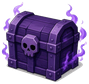
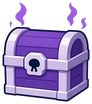
v0.3：平涂卡通新素材 + 按布景规则随机生成房间

diff --git a/src/game/scenes/RunScene.ts b/src/game/scenes/RunScene.ts
@@ -30,6 +30,7 @@ const MON_COLOR: Record<string, number> = { mon_slime: 0x7ee36b, mon_slime_mini:
 export class RunScene extends Phaser.Scene {
   constructor() { super('Run'); }
   // 基础
+  stoneGrid: Uint8Array | null = null; gridW = 0; gridH = 0; stoneLayer: Phaser.Tilemaps.TilemapLayer | null = null; roomPlazas: { ox: number; oy: number; x0: number; y0: number; sz: number; cx: number; cy: number }[] = [];
   rng!: Rng; juice!: Juice; floor = 1; isBoss = false; regionCoef = 1; mapW = 0; mapH = 0;
   W = 750; H = 1334; topH = 0; barTop = 0; sa = { top: 0, bottom: 0 };
   tutorial = false; lockTipT = 0;
@@ -125,38 +126,91 @@ export class RunScene extends Phaser.Scene {
     const R = 18 * CELL;
     if (this.isBoss) { this.mapW = 16 * CELL; this.mapH = 34 * CELL; } else { this.mapW = 3 * R; this.mapH = 3 * R; }
     this.cameras.main.setBackgroundColor('#3d5a2a');
-    this.add.tileSprite(0, 0, this.mapW, this.mapH, 'tile_garden_grass').setOrigin(0).setDepth(-1000);
-    // 石板路：贯穿房间中心
-    const road = (x: number, y: number, w: number, h: number) => this.add.tileSprite(x, y, w, h, 'tile_garden_stone').setOrigin(0).setDepth(-999).setTileScale(0.5);
-    if (!this.isBoss) {
-      for (let i = 0; i < 3; i++) { road(0, i * R + R / 2 - CELL, this.mapW, CELL * 2); road(i * R + R / 2 - CELL, 0, CELL * 2, this.mapH); }
-      // 房间中心广场
-      for (let i = 0; i < 3; i++) for (let j = 0; j < 3; j++) if (this.rng.chance(0.6)) road(i * R + R / 2 - CELL * 2.5, j * R + R / 2 - CELL * 2.5, CELL * 5, CELL * 5);
-    } else {
-      road(this.mapW / 2 - CELL * 1.5, 0, CELL * 3, this.mapH);
-      road(CELL * 2, CELL * 2, this.mapW - CELL * 4, CELL * 20);
-    }
-    // 边界：石柱围墙
-    const edge = this.add.graphics().setDepth(-998); edge.lineStyle(26, 0x2b1d14, 0.55); edge.strokeRect(0, 0, this.mapW, this.mapH);
-    for (let x = 0; x <= this.mapW; x += CELL * 3) { this.prop('prop_bush_flower', x, -10, false, 0.9); this.prop('prop_bush_flower', x, this.mapH + 40, false, 0.9); }
-    for (let y = CELL * 2; y <= this.mapH; y += CELL * 3) { this.prop('prop_bush_flower', -10, y, false, 0.9); this.prop('prop_bush_flower', this.mapW + 10, y, false, 0.9); }
+    this.add.tileSprite(0, 0, this.mapW, this.mapH, 'tile_garden_grass').setOrigin(0).setDepth(-1000).setTileScale(1);
+    // 石砖：64px 瓦片铺成 tilemap（只渲染镜头内的格子，比遮罩省）
+    const cw = Math.ceil(this.mapW / CELL), chh = Math.ceil(this.mapH / CELL);
+    this.stoneGrid = new Uint8Array(cw * chh); this.gridW = cw; this.gridH = chh;
+    const tm = this.make.tilemap({ tileWidth: CELL, tileHeight: CELL, width: cw, height: chh });
+    const ts = tm.addTilesetImage('stone', 'tile_garden_stone_64', CELL, CELL, 0, 0, 0)!;
+    this.stoneLayer = tm.createBlankLayer('stone', ts, 0, 0)!.setDepth(-999);
+    const stone = (x0: number, y0: number, w: number, h: number, round = false) => {
+      for (let x = x0; x < x0 + w; x++) for (let y = y0; y < y0 + h; y++) {
+        if (round && (x === x0 || x === x0 + w - 1) && (y === y0 || y === y0 + h - 1)) continue; // 圆角：去掉 4 个角
+        if (x < 0 || y < 0 || x >= cw || y >= chh) continue;
+        this.stoneGrid![y * cw + x] = 1; this.stoneLayer!.putTileAt(0, x, y);
+      }
+    };
+    // 边界：外圈一排树（不挡路，只做画框）
+    const edge = this.add.graphics().setDepth(-998); edge.lineStyle(26, 0x2b4a1e, 0.5); edge.strokeRect(0, 0, this.mapW, this.mapH);
+    for (let x = -CELL; x <= this.mapW + CELL; x += CELL * 2.2) { this.deco('deco_garden_tree', x + this.rng.range(-20, 20), -CELL * 0.2, true); this.deco('deco_garden_tree', x + this.rng.range(-20, 20), this.mapH + CELL * 2.2, true); }
+    for (let y = CELL * 1.8; y <= this.mapH + CELL; y += CELL * 2.2) { this.deco('deco_garden_tree', -CELL * 0.6, y, true); this.deco('deco_garden_tree', this.mapW + CELL * 0.6, y); }
 
-    if (this.isBoss) return this.buildBossMap();
-    // 每个房间：障碍、装饰、陶罐
-    for (let i = 0; i < 3; i++) for (let j = 0; j < 3; j++) {
-      const ox = i * R, oy = j * R;
-      const n = this.rng.int(4, 7);
-      for (let k = 0; k < n; k++) {
-        const x = ox + this.rng.range(2, 16) * CELL, y = oy + this.rng.range(2, 16) * CELL;
-        if (Math.abs(x - (ox + R / 2)) < CELL * 2.5 || Math.abs(y - (oy + R / 2)) < CELL * 2.5) continue; // 不堵路
-        const kind = this.rng.pick(['prop_pillar', 'prop_rock', 'prop_statue', 'prop_rock', 'prop_bush_flower', 'prop_bush_flower']);
-        this.prop(kind, x, y, kind !== 'prop_bush_flower');
+    if (this.isBoss) { stone(Math.floor(cw / 2) - 1, 0, 3, chh); stone(2, 2, cw - 4, 20, true); return this.buildBossMap(); }
+
+    // ===== 房间（3×3，每间 18×18 格），规则见美术《花园房间布景规则_v1》 =====
+    const N = 3, RC = 18;
+    // 房间之间的连路：全连后随机去掉一些，保证每间 ≥2 条且整体连通
+    const links: [number, number, number, number][] = [];
+    for (let i = 0; i < N; i++) for (let j = 0; j < N; j++) { if (i < N - 1) links.push([i, j, i + 1, j]); if (j < N - 1) links.push([i, j, i, j + 1]); }
+    const deg = (i: number, j: number, L: typeof links) => L.filter((l) => (l[0] === i && l[1] === j) || (l[2] === i && l[3] === j)).length;
+    const connected = (L: typeof links) => { const seen = new Set(['0,0']); const q = [[0, 0]]; while (q.length) { const [i, j] = q.pop()!; for (const l of L) { let o: number[] | null = null; if (l[0] === i && l[1] === j) o = [l[2], l[3]]; else if (l[2] === i && l[3] === j) o = [l[0], l[1]]; if (o && !seen.has(o.join(','))) { seen.add(o.join(',')); q.push(o); } } } return seen.size === N * N; };
+    let L = [...links];
+    for (const l of Phaser.Utils.Array.Shuffle([...links])) { if (!this.rng.chance(0.3)) continue; const t = L.filter((x) => x !== l); if (deg(l[0], l[1], t) >= 2 && deg(l[2], l[3], t) >= 2 && connected(t)) L = t; }
+    this.roomPlazas = [];
+    for (let i = 0; i < N; i++) for (let j = 0; j < N; j++) {
+      const ox = i * RC, oy = j * RC, cx = ox + 9, cy = oy + 9;
+      const sz = this.rng.int(6, 8), x0 = cx - Math.floor(sz / 2), y0 = cy - Math.floor(sz / 2);
+      stone(x0, y0, sz, sz, true);
+      this.roomPlazas.push({ ox, oy, x0, y0, sz, cx, cy });
+      const has = (di: number, dj: number) => L.some((l) => (l[0] === i && l[1] === j && l[2] === i + di && l[3] === j + dj) || (l[2] === i && l[3] === j && l[0] === i + di && l[1] === j + dj));
+      if (has(1, 0)) stone(x0 + sz, cy - 1, ox + RC - (x0 + sz), 2);
+      if (has(-1, 0)) stone(ox, cy - 1, x0 - ox, 2);
+      if (has(0, 1)) stone(cx - 1, y0 + sz, 2, oy + RC - (y0 + sz));
+      if (has(0, -1)) stone(cx - 1, oy, 2, y0 - oy);
+    }
+    for (let r = 0; r < this.roomPlazas.length; r++) {
+      const P = this.roomPlazas[r]; const { ox, oy, x0, y0, sz, cx, cy } = P; let solids = 0;
+      const C = (gx: number) => gx * CELL;
+      // 广场四角柱子，随机缺 0~2 根
+      const corners = Phaser.Utils.Array.Shuffle([[x0, y0], [x0 + sz - 1, y0], [x0, y0 + sz - 1], [x0 + sz - 1, y0 + sz - 1]]);
+      const miss = this.rng.int(0, 2);
+      corners.slice(miss).forEach(([gx, gy]) => { this.prop('prop_pillar', C(gx + 0.5), C(gy + 0.9), true); solids++; });
+      // 广场上沿中间的雕像（上方没有小路时才放，小路上不放碰撞物）
+      if (this.rng.chance(0.6) && !this.isStone(cx, y0 - 1)) { this.prop('prop_statue', C(cx), C(y0 + 0.8), true); solids++; }
+      // 房间四角的自然物件组
+      for (const [sx, sy] of [[0, 0], [1, 0], [0, 1], [1, 1]]) {
+        const bx = sx ? ox + RC - this.rng.range(1.5, 3) : ox + this.rng.range(1.5, 3), by = sy ? oy + RC - this.rng.range(1, 2.5) : oy + this.rng.range(2, 3);
+        if (this.place('deco_garden_tree', C(bx), C(by), 0.6)) solids++;
+        if (this.rng.chance(0.5) && this.place('deco_garden_tree', C(bx + (sx ? -2.2 : 2.2)), C(by + this.rng.range(-0.5, 0.8)), 0.6)) solids++;
+        if (this.rng.chance(0.7)) this.place('prop_bush_flower', C(bx + (sx ? -1 : 1) * this.rng.range(0.8, 1.4)), C(by + 1.1), 0);
+        if (this.rng.chance(0.6)) this.place('deco_garden_mushroom', C(bx + (sx ? 1 : -1) * 0.9), C(by + 0.6), 0);
+      }
+      // 草地上的断墙 2~3 段（离房间边 2~4 格）
+      for (let k = 0, n = this.rng.int(2, 3), tries = 0; k < n && tries < 30; tries++) {
+        const side = this.rng.int(0, 3); const d = this.rng.range(2, 4), t = this.rng.range(3, 15);
+        const gx = side === 0 ? ox + t : side === 1 ? ox + RC - d : side === 2 ? ox + t : ox + d;
+        const gy = side === 0 ? oy + d + 0.5 : side === 1 ? oy + t : side === 2 ? oy + RC - d : oy + t;
+        if (this.place('obs_garden_wall', C(gx), C(gy), 1.0, true)) { k++; solids++; }
+      }
+      // 点缀：石头 1~2、水洼 0~1、篱笆 0~1
+      for (let k = 0, n = this.rng.int(1, 2), tries = 0; k < n && tries < 30; tries++) if (this.place('prop_rock', C(ox + this.rng.range(2, 16)), C(oy + this.rng.range(2, 16)), 0.7)) { k++; solids++; }
+      if (this.rng.chance(0.6)) for (let tries = 0; tries < 20; tries++) if (this.place('deco_garden_puddle', C(ox + this.rng.range(2, 16)), C(oy + this.rng.range(2, 16)), 0, false, true)) break;
+      if (this.rng.chance(0.5)) for (let tries = 0; tries < 20; tries++) if (this.place('obs_garden_fence', C(ox + this.rng.range(2, 16)), C(oy + this.rng.range(2, 16)), 0.9, true)) { solids++; break; }
+      if (this.rng.chance(0.4)) for (let tries = 0; tries < 20; tries++) if (this.place('deco_garden_slab', C(ox + this.rng.range(2, 16)), C(oy + this.rng.range(2, 16)), 0, false, true)) break;
+      // 补到至少 8 个碰撞物（石头）
+      for (let tries = 0; solids < 8 && tries < 40; tries++) if (this.place(this.rng.chance(0.5) ? 'prop_rock' : 'prop_bush_flower', C(ox + this.rng.range(2, 16)), C(oy + this.rng.range(2, 16)), 0.6)) solids++;
+      // 草丛 + 小花 20~30 个，只撒在草地上
+      for (let k = 0, n = this.rng.int(20, 30), tries = 0; k < n && tries < 80; tries++) {
+        const gx = ox + this.rng.range(0.5, 17.5), gy = oy + this.rng.range(0.5, 17.5);
+        if (this.isStone(Math.floor(gx), Math.floor(gy))) continue;
+        const img = this.add.image(C(gx), C(gy), this.rng.chance(0.55) ? 'deco_garden_grass' : 'deco_garden_flower').setOrigin(0.5, 1).setDepth(-600 + gy * 0.01);
+        if (this.rng.chance(0.5)) img.setFlipX(true); k++;
       }
     }
-    // 出生点：中央房间
+    // 出生点：中央房间广场中心
     this.px = R * 1.5; this.py = R * 1.5;
-    // 陶罐
-    for (let k = 0; k < Cfg.gp._pot_count; k++) { const p = this.freeSpot(3); this.pots.push({ x: p.x, y: p.y, spr: this.add.image(p.x, p.y, 'prop_pot').setOrigin(0.5, 0.9).setDepth(p.y), broken: false }); }
+    // 陶罐：广场边缘或小路旁 1 格内
+    for (let k = 0; k < Cfg.gp._pot_count; k++) { const p = this.edgeSpot(3); this.pots.push({ x: p.x, y: p.y, spr: this.add.image(p.x, p.y, 'prop_pot').setOrigin(0.5, 0.97).setDepth(p.y), broken: false }); this.shadowAt(p.x, p.y, 71); }
     // 宝箱（寻宝直觉加成数量）
     const fr = Cfg.floorRow('garden', this.floor);
     const chestTable: Record<string, number> = this.tutorial && this.floor === 1 && Cfg.gp.tutorial_chests ? Cfg.gp.tutorial_chests : fr.chests;
@@ -167,13 +221,49 @@ export class RunScene extends Phaser.Scene {
       for (let k = 0; k < n; k++) {
         // 第一个宝箱刷在出生点 4~6 格内（教开箱）
         const near = Cfg.gp.first_chest_near_spawn as number[] | undefined;
-        const p = firstChest && near ? this.ringSpot(near[0], near[1]) : this.freeSpot(5);
+        const p = firstChest && near ? this.ringSpot(near[0], near[1]) : this.edgeSpot(5);
         const mimic = !firstChest && id === 'chest_wood' && this.floor >= (Cfg.gp.mimic_min_floor ?? 1) && this.rng.chance(Cfg.gp._mimic_rate);
         const c = this.addChest(id, p.x, p.y, mimic);
         if (firstChest && this.tutorial) (c as any).minRarity = Cfg.gp.tutorial_first_chest_rarity ?? null;
         firstChest = false;
       }
     }
+  }
+  isStone(gx: number, gy: number) { return gx >= 0 && gy >= 0 && gx < this.gridW && gy < this.gridH && this.stoneGrid![gy * this.gridW + gx] === 1; }
+  /** 椭圆影子：宽 = 图宽 70%，高 16px，#1E3C1E 透明度 0.27（布景规则 §图层 5） */
+  shadowAt(x: number, y: number, w: number) { this.add.image(x, y - 2, 'shadow_e').setDisplaySize(w * 0.7, 16).setTint(0x1e3c1e).setAlpha(0.27).setDepth(y - 1); }
+  /** 立体装饰（可选碰撞，不做规则检查） */
+  deco(key: string, x: number, y: number, flip = false) { const img = this.add.image(x, y, key).setOrigin(0.5, 0.97).setDepth(y); if (flip || this.rng.chance(0.5)) img.setFlipX(true); this.shadowAt(x, y, img.width); return img; }
+  /** 按布景规则放物件：碰撞物之间 ≥2 格、不压小路、不进广场中心 4×4；flat=平铺装饰 */
+  place(key: string, x: number, y: number, rCells: number, wide = false, flat = false): boolean {
+    const gx = Math.floor(x / CELL), gy = Math.floor(y / CELL);
+    if (x < CELL || y < CELL * 1.5 || x > this.mapW - CELL || y > this.mapH - CELL * 0.5) return false;
+    const span = wide ? 2 : 1;
+    for (let dx = -span; dx <= span; dx++) for (let dy = -1; dy <= 0; dy++) if (this.isStone(gx + dx, gy + dy)) return false;
+    for (const P of this.roomPlazas) if (Math.abs(x / CELL - P.cx) < 2.5 && Math.abs(y / CELL - P.cy) < 2.5) return false;
+    if (rCells > 0 && this.obst.some((o) => dist2(x, y, o.x, o.y) < (2 * CELL) ** 2)) return false;
+    if (dist2(x, y, this.mapW / 2, this.mapH / 2) < (3 * CELL) ** 2) return false; // 出生点周围留空
+    if (flat) { const img = this.add.image(x, y, key).setOrigin(0.5, 1).setDepth(-700); if (this.rng.chance(0.5)) img.setFlipX(true); return true; }
+    const img = this.add.image(x, y, key).setOrigin(0.5, 0.97).setDepth(y);
+    if (this.rng.chance(0.5) && key !== 'prop_statue') img.setFlipX(true);
+    this.shadowAt(x, y, img.width);
+    if (rCells > 0) { if (wide) { this.obst.push({ x: x - CELL * 0.5, y: y - 14, r: CELL * 0.55 }); this.obst.push({ x: x + CELL * 0.5, y: y - 14, r: CELL * 0.55 }); } else this.obst.push({ x, y: y - 12, r: rCells * CELL * 0.6 }); }
+    return true;
+  }
+  /** 广场边缘或小路旁 1 格内的草地格（宝箱/陶罐要一眼能看到） */
+  edgeSpot(minDist: number) {
+    for (let k = 0; k < 200; k++) {
+      const gx = this.rng.int(1, this.gridW - 2), gy = this.rng.int(2, this.gridH - 2);
+      if (this.isStone(gx, gy)) continue;
+      if (!(this.isStone(gx + 1, gy) || this.isStone(gx - 1, gy) || this.isStone(gx, gy + 1) || this.isStone(gx, gy - 1))) continue;
+      const x = (gx + 0.5) * CELL, y = (gy + 0.8) * CELL;
+      if (dist2(x, y, this.px, this.py) < (minDist * CELL) ** 2) continue;
+      if (this.obst.some((o) => dist2(x, y, o.x, o.y) < (o.r + CELL * 0.8) ** 2)) continue;
+      if (this.chests.some((c) => dist2(x, y, c.x, c.y) < (CELL * 4) ** 2)) continue;
+      if (this.pots.some((c) => dist2(x, y, c.x, c.y) < (CELL * 2) ** 2)) continue;
+      return { x, y };
+    }
+    return this.freeSpot(minDist);
   }
   buildBossMap() {
     // 前厅（下方 10 格）+ Boss 房（上方 24 格）
@@ -189,7 +279,7 @@ export class RunScene extends Phaser.Scene {
   }
   txtWorld(x: number, y: number, s: string, size: number, color: string) { return txt(this, x, y, s, size, color, '#2b1d14', 6).setDepth(-900); }
   prop(key: string, x: number, y: number, solid: boolean, sc = 1) {
-    const img = this.add.image(x, y, key).setOrigin(0.5, 0.92).setDepth(y).setScale(sc);
+    const img = this.add.image(x, y, key).setOrigin(0.5, 0.97).setDepth(y).setScale(sc); this.shadowAt(x, y, img.width * sc);
     if (this.rng.chance(0.5) && key !== 'prop_statue') img.setFlipX(true);
     if (solid) this.obst.push({ x, y: y - 10, r: (key === 'prop_rock' ? 0.75 : 0.6) * CELL * sc });
     return img;
@@ -216,8 +306,8 @@ export class RunScene extends Phaser.Scene {
   }
   addChest(id: string, x: number, y: number, mimic = false) {
     const row = Cfg.chestRow(id);
-    const spr = this.add.image(x, y, row.sprite + '_closed').setOrigin(0.5, 0.92).setDepth(y);
-    this.add.image(x, y + 4, 'shadow').setDepth(y - 1).setScale(1.3, 1.2);
+    const spr = this.add.image(x, y, row.sprite + '_closed').setOrigin(0.5, 0.97).setDepth(y);
+    this.shadowAt(x, y, spr.width);
     if (id === 'chest_curse') this.tweens.add({ targets: spr, alpha: 0.82, yoyo: true, repeat: -1, duration: 700 });
     if (id !== 'chest_wood') this.tweens.add({ targets: spr, scaleY: 1.05, yoyo: true, repeat: -1, duration: 900, ease: 'Sine.inOut' });
     const c: Chest = { id, x, y, spr, opened: false, prog: 0, mimic };
@@ -927,7 +1017,7 @@ export class RunScene extends Phaser.Scene {
     this.drops.push(d); return d;
   }
   spawnItem(item: BagItem, x: number, y: number, delay = 0) {
-    const spr = this.add.image(x, y, this.itemIcon(item)).setScale(item.kind === 'treasure' ? 0.55 : 0.4).setDepth(y);
+    const spr = this.add.image(x, y, this.itemIcon(item)).setScale(item.kind === 'treasure' ? 0.7 : 0.55).setDepth(y);
     const a = -Math.PI / 2 + this.rng.range(-1.2, 1.2), dd = this.rng.range(0.8, 1.4) * CELL;
     const j = Cfg.juice.bounce_treasure;
     const d: Drop = { kind: 'item', spr, x, y, z: 0, value: item.value ?? 0, item, st: 'bounce', t: -delay, dur: (j?.duration_ms ?? 450) / 1000, h: j?.amplitude ?? 48, sx: x, sy: y, tx: clamp(x + Math.cos(a) * dd, 30, this.mapW - 30), ty: clamp(y + Math.sin(a) * dd * 0.6 + 30, 30, this.mapH - 30), vx: 0, vy: 0, mt: 0, fx: [] };

diff --git a/src/game/scenes/BootScene.ts b/src/game/scenes/BootScene.ts
@@ -10,7 +10,8 @@ const IMGS = ['boss_vine_golem_attack', 'boss_vine_golem_dead', 'boss_vine_golem
   'chest_boss_closed', 'chest_boss_open', 'chest_cursed_closed', 'chest_cursed_open', 'chest_silver_closed', 'chest_silver_open', 'chest_wood_closed', 'chest_wood_open',
   'icon_blueprint', 'icon_bomb', 'icon_coin', 'icon_exp_star', 'icon_iron', 'icon_mana_crystal', 'icon_potion', 'icon_relic_shard', 'icon_scroll_evac', 'icon_shield',
   'mon_bat', 'mon_golem', 'mon_mimic', 'mon_archer', 'mon_slime', 'mon_slime_elite', 'mon_slime_mini', 'mon_thief',
-  'prop_bush_flower', 'prop_pillar', 'prop_portal_evac', 'prop_pot', 'prop_pot_broken', 'prop_rock', 'prop_stairs_down', 'prop_statue', 'tile_garden_grass', 'tile_garden_stone'];
+  'prop_bush_flower', 'prop_pillar', 'prop_portal_evac', 'prop_pot', 'prop_pot_broken', 'prop_rock', 'prop_stairs_down', 'prop_statue', 'tile_garden_grass', 'tile_garden_stone', 'tile_garden_stone_64', 'tile_garden_grass_64',
+  'deco_garden_flower', 'deco_garden_grass', 'deco_garden_mushroom', 'deco_garden_puddle', 'deco_garden_slab', 'deco_garden_tree', 'obs_garden_fence', 'obs_garden_wall'];
 
 export class BootScene extends Phaser.Scene {
   constructor() { super('Boot'); }

diff --git a/src/game/Textures.ts b/src/game/Textures.ts
@@ -8,6 +8,7 @@ export function makeTextures(s: Phaser.Scene) {
   const g = s.make.graphics({ x: 0, y: 0 }, false);
   const tex = (key: string, w: number, h: number, draw: () => void) => { g.clear(); draw(); g.generateTexture(key, w, h); };
 
+  tex('shadow_e', 64, 16, () => { g.fillStyle(0xffffff, 1); g.fillEllipse(32, 8, 62, 15); });
   tex('shadow', 64, 24, () => { g.fillStyle(0x000000, 0.28); g.fillEllipse(32, 12, 60, 20); });
   tex('dot', 16, 16, () => { g.fillStyle(0xffffff); g.fillCircle(8, 8, 8); });
   tex('px', 4, 4, () => { g.fillStyle(0xffffff); g.fillRect(0, 0, 4, 4); });
